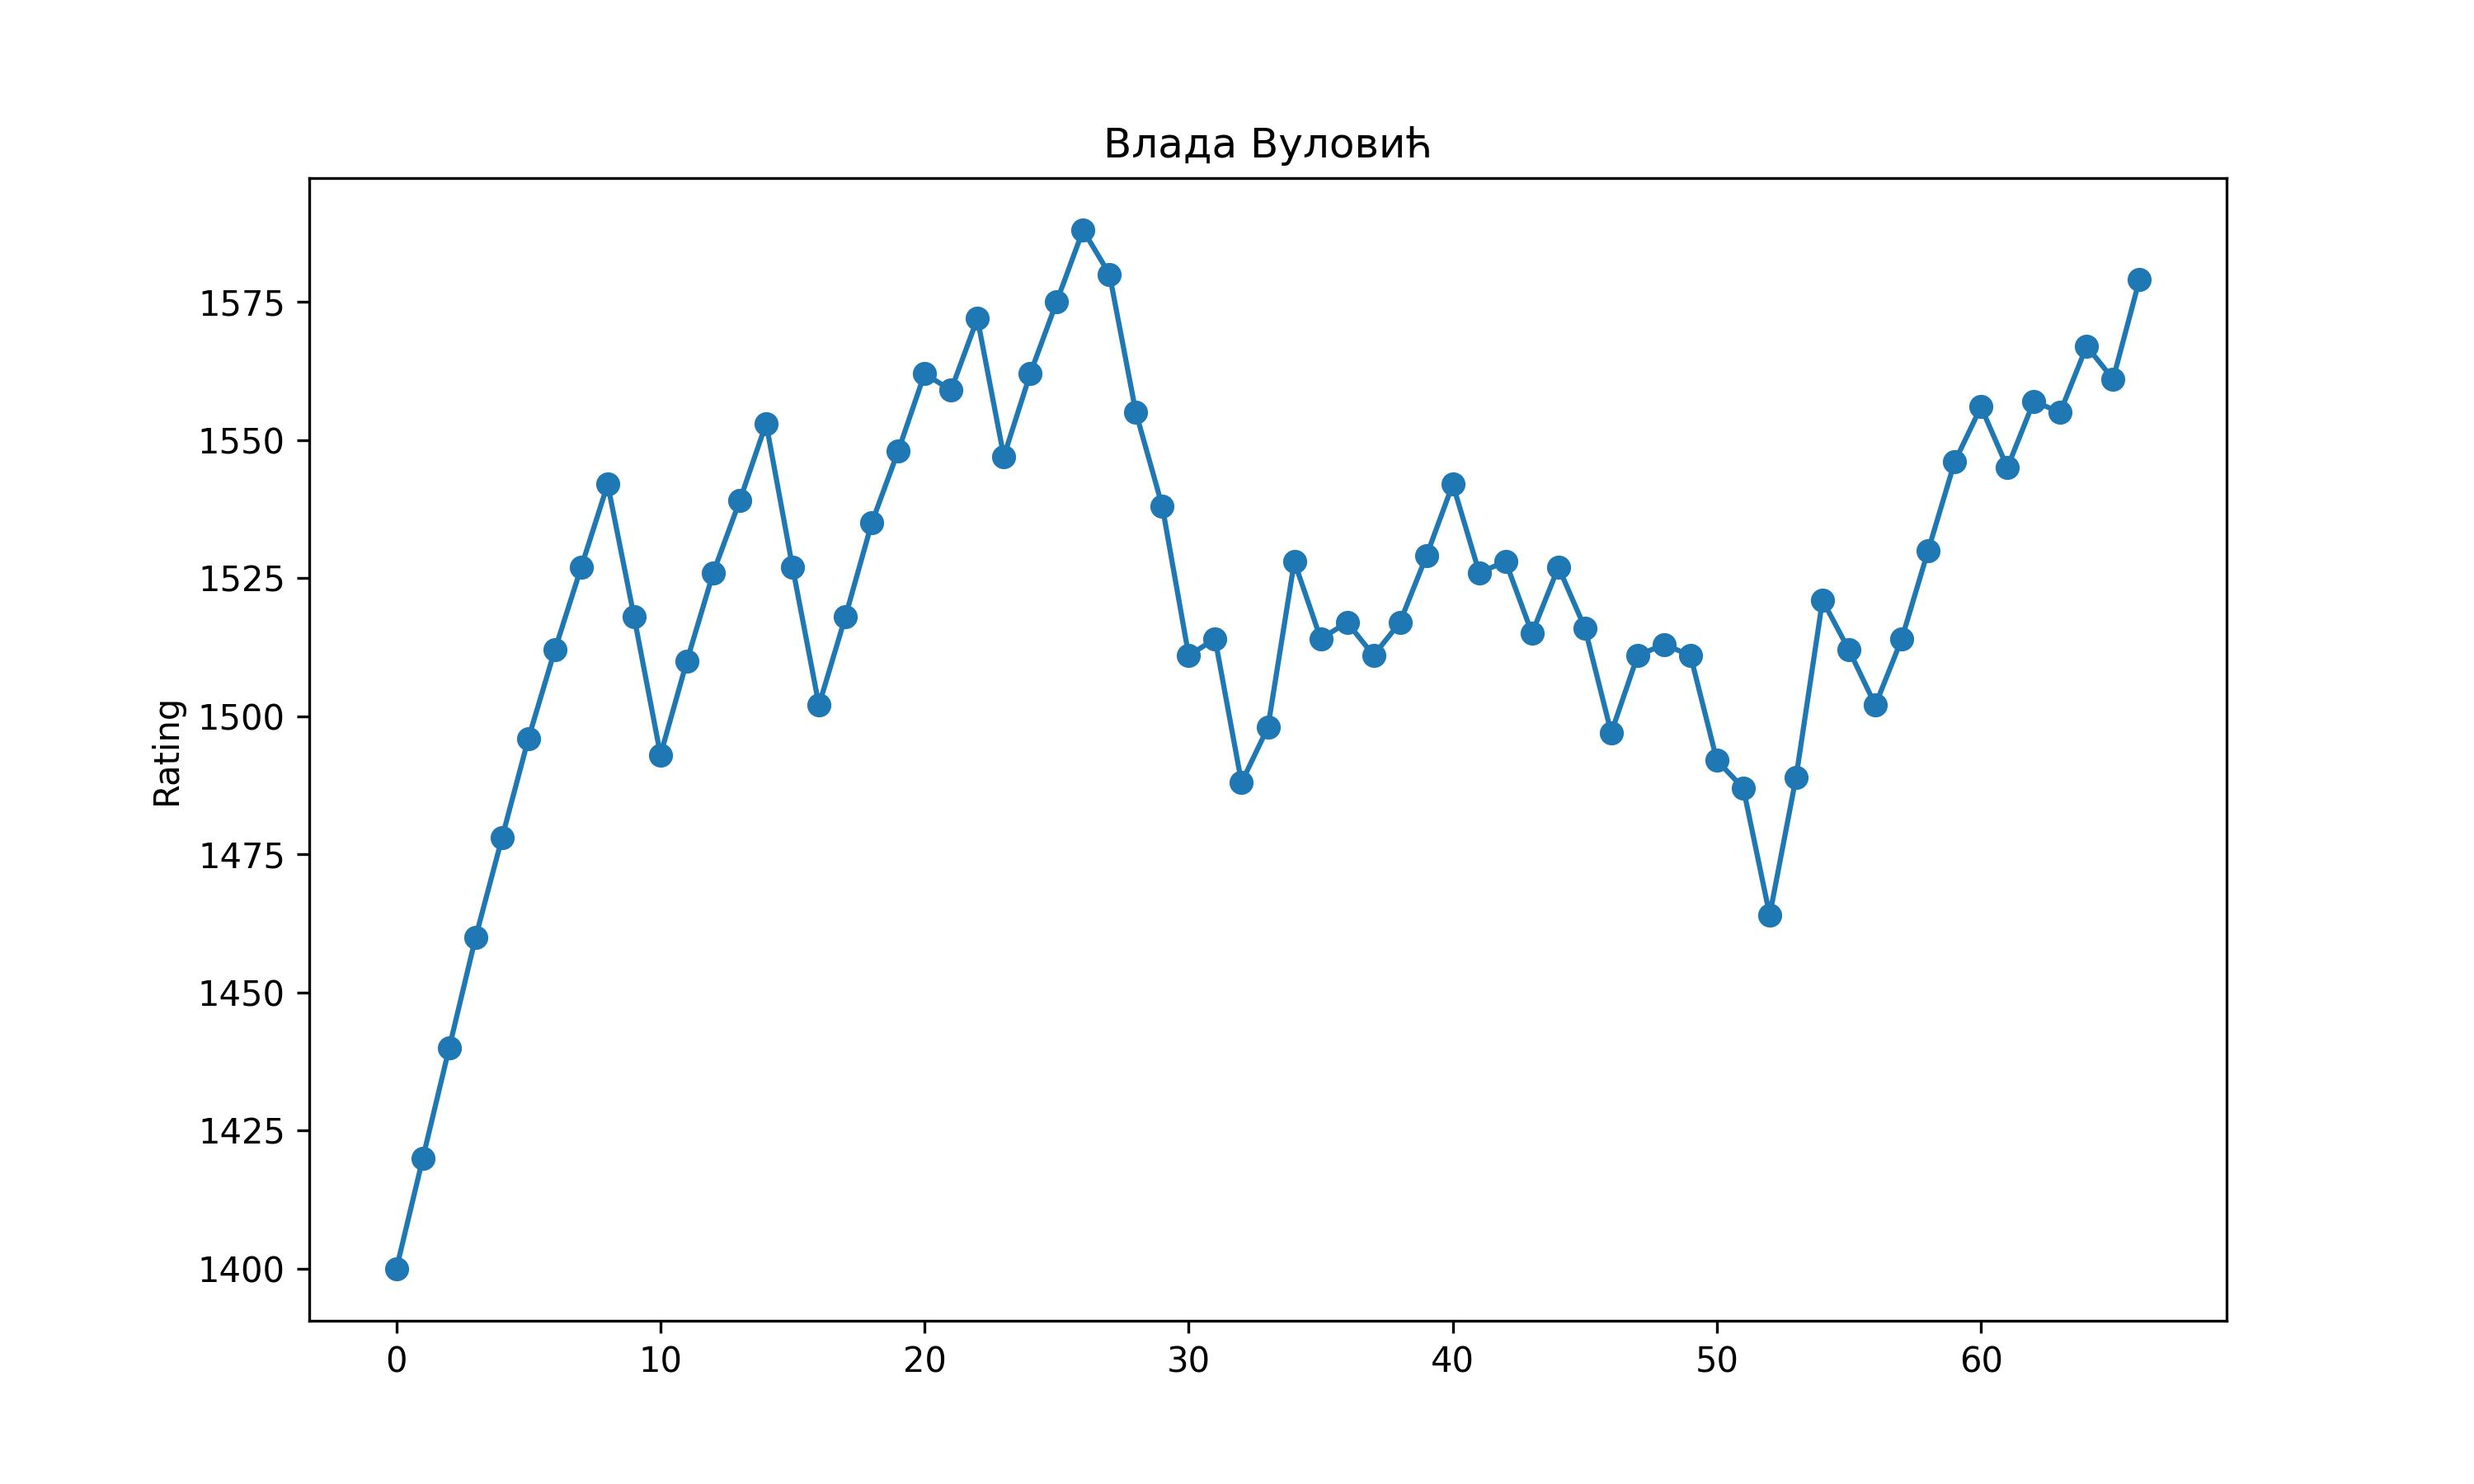
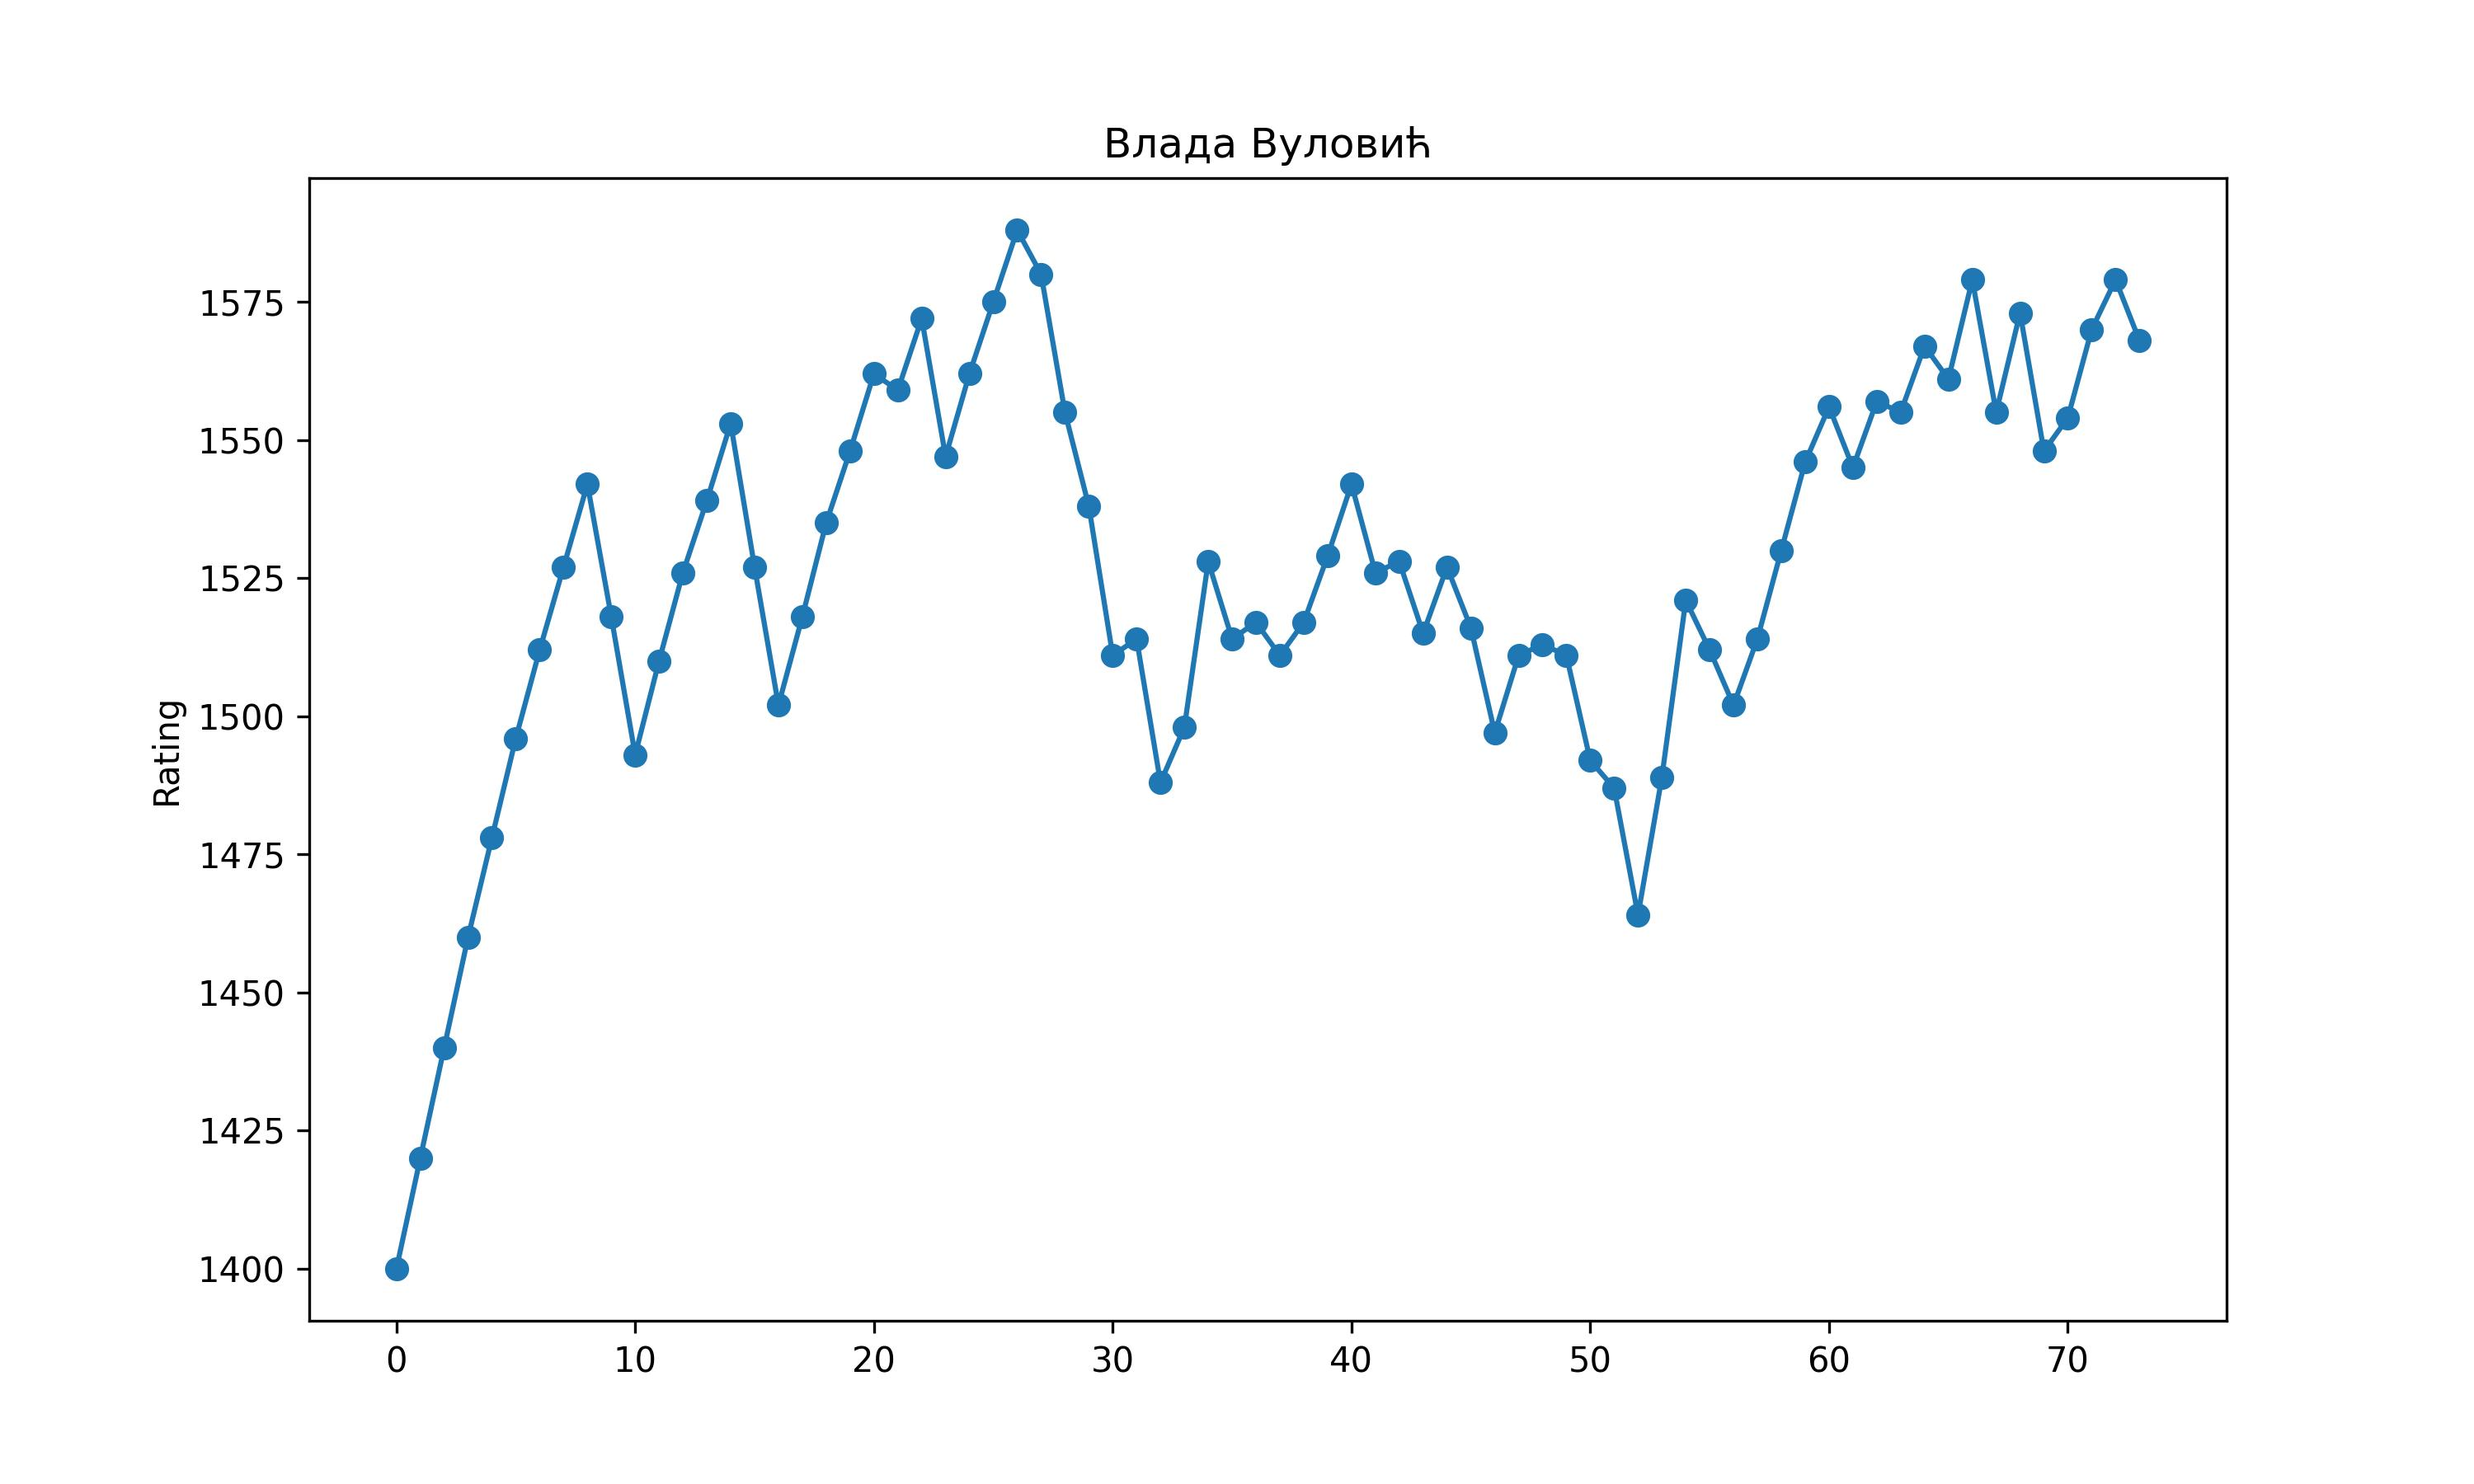
Azuriran rejting

diff --git a/Rating/excel_to_csv.py b/Rating/excel_to_csv.py
@@ -86,7 +86,8 @@ def excel_to_csv():
         ("8", r'Turnir 2019 - 12'),
         ("9", r'Turnir 2022'),
         ("10", r'Turnir 2023'),
-        ("11", r'Turnir 2024')
+        ("11", r'Turnir 2024'),
+        ("12", r'Turnir 2025'),
     ]
     for id, fileName in pairs:
         izvoz(id, fileName)

diff --git a/Rating/Rating.py b/Rating/Rating.py
@@ -24,7 +24,6 @@ players_to_hide_output = {
     'Аца Спасојевић',
     'Слободан Бојанић',
     'Саша Дожић',
-    'Алекса Миловановић',
     'Перица Милошевић',
     'Далибор Марчета',
     'Nathan Main',
